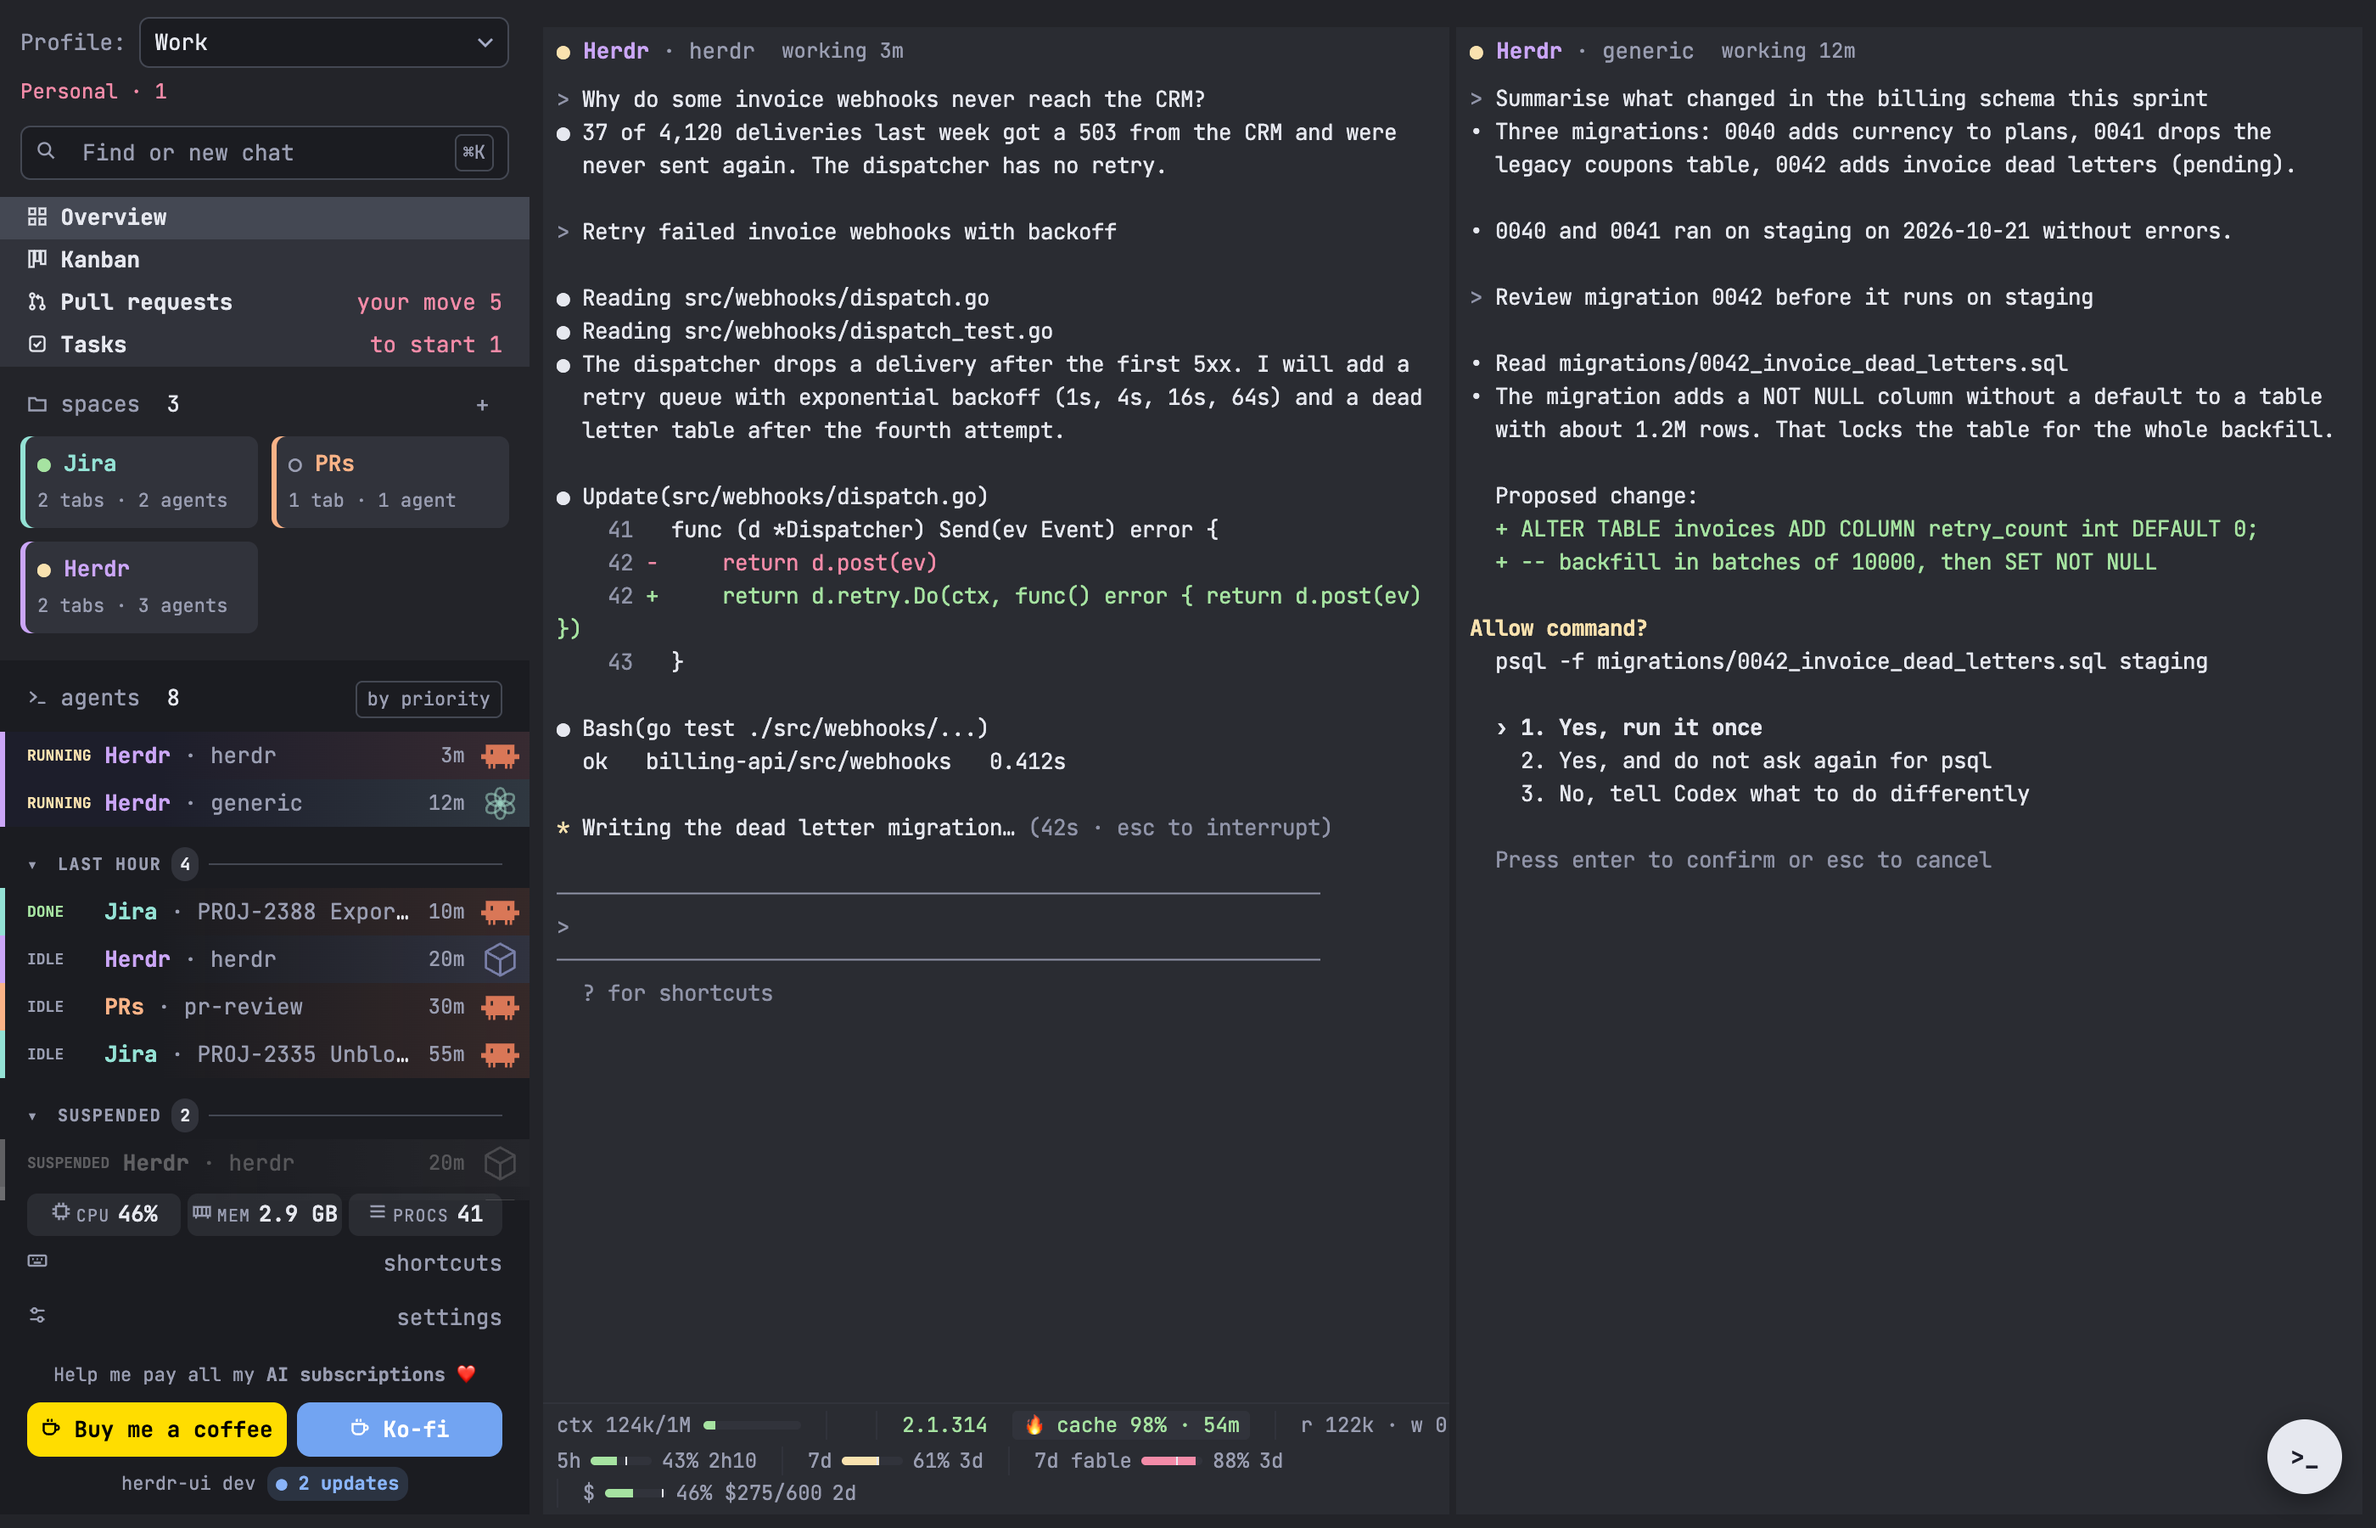
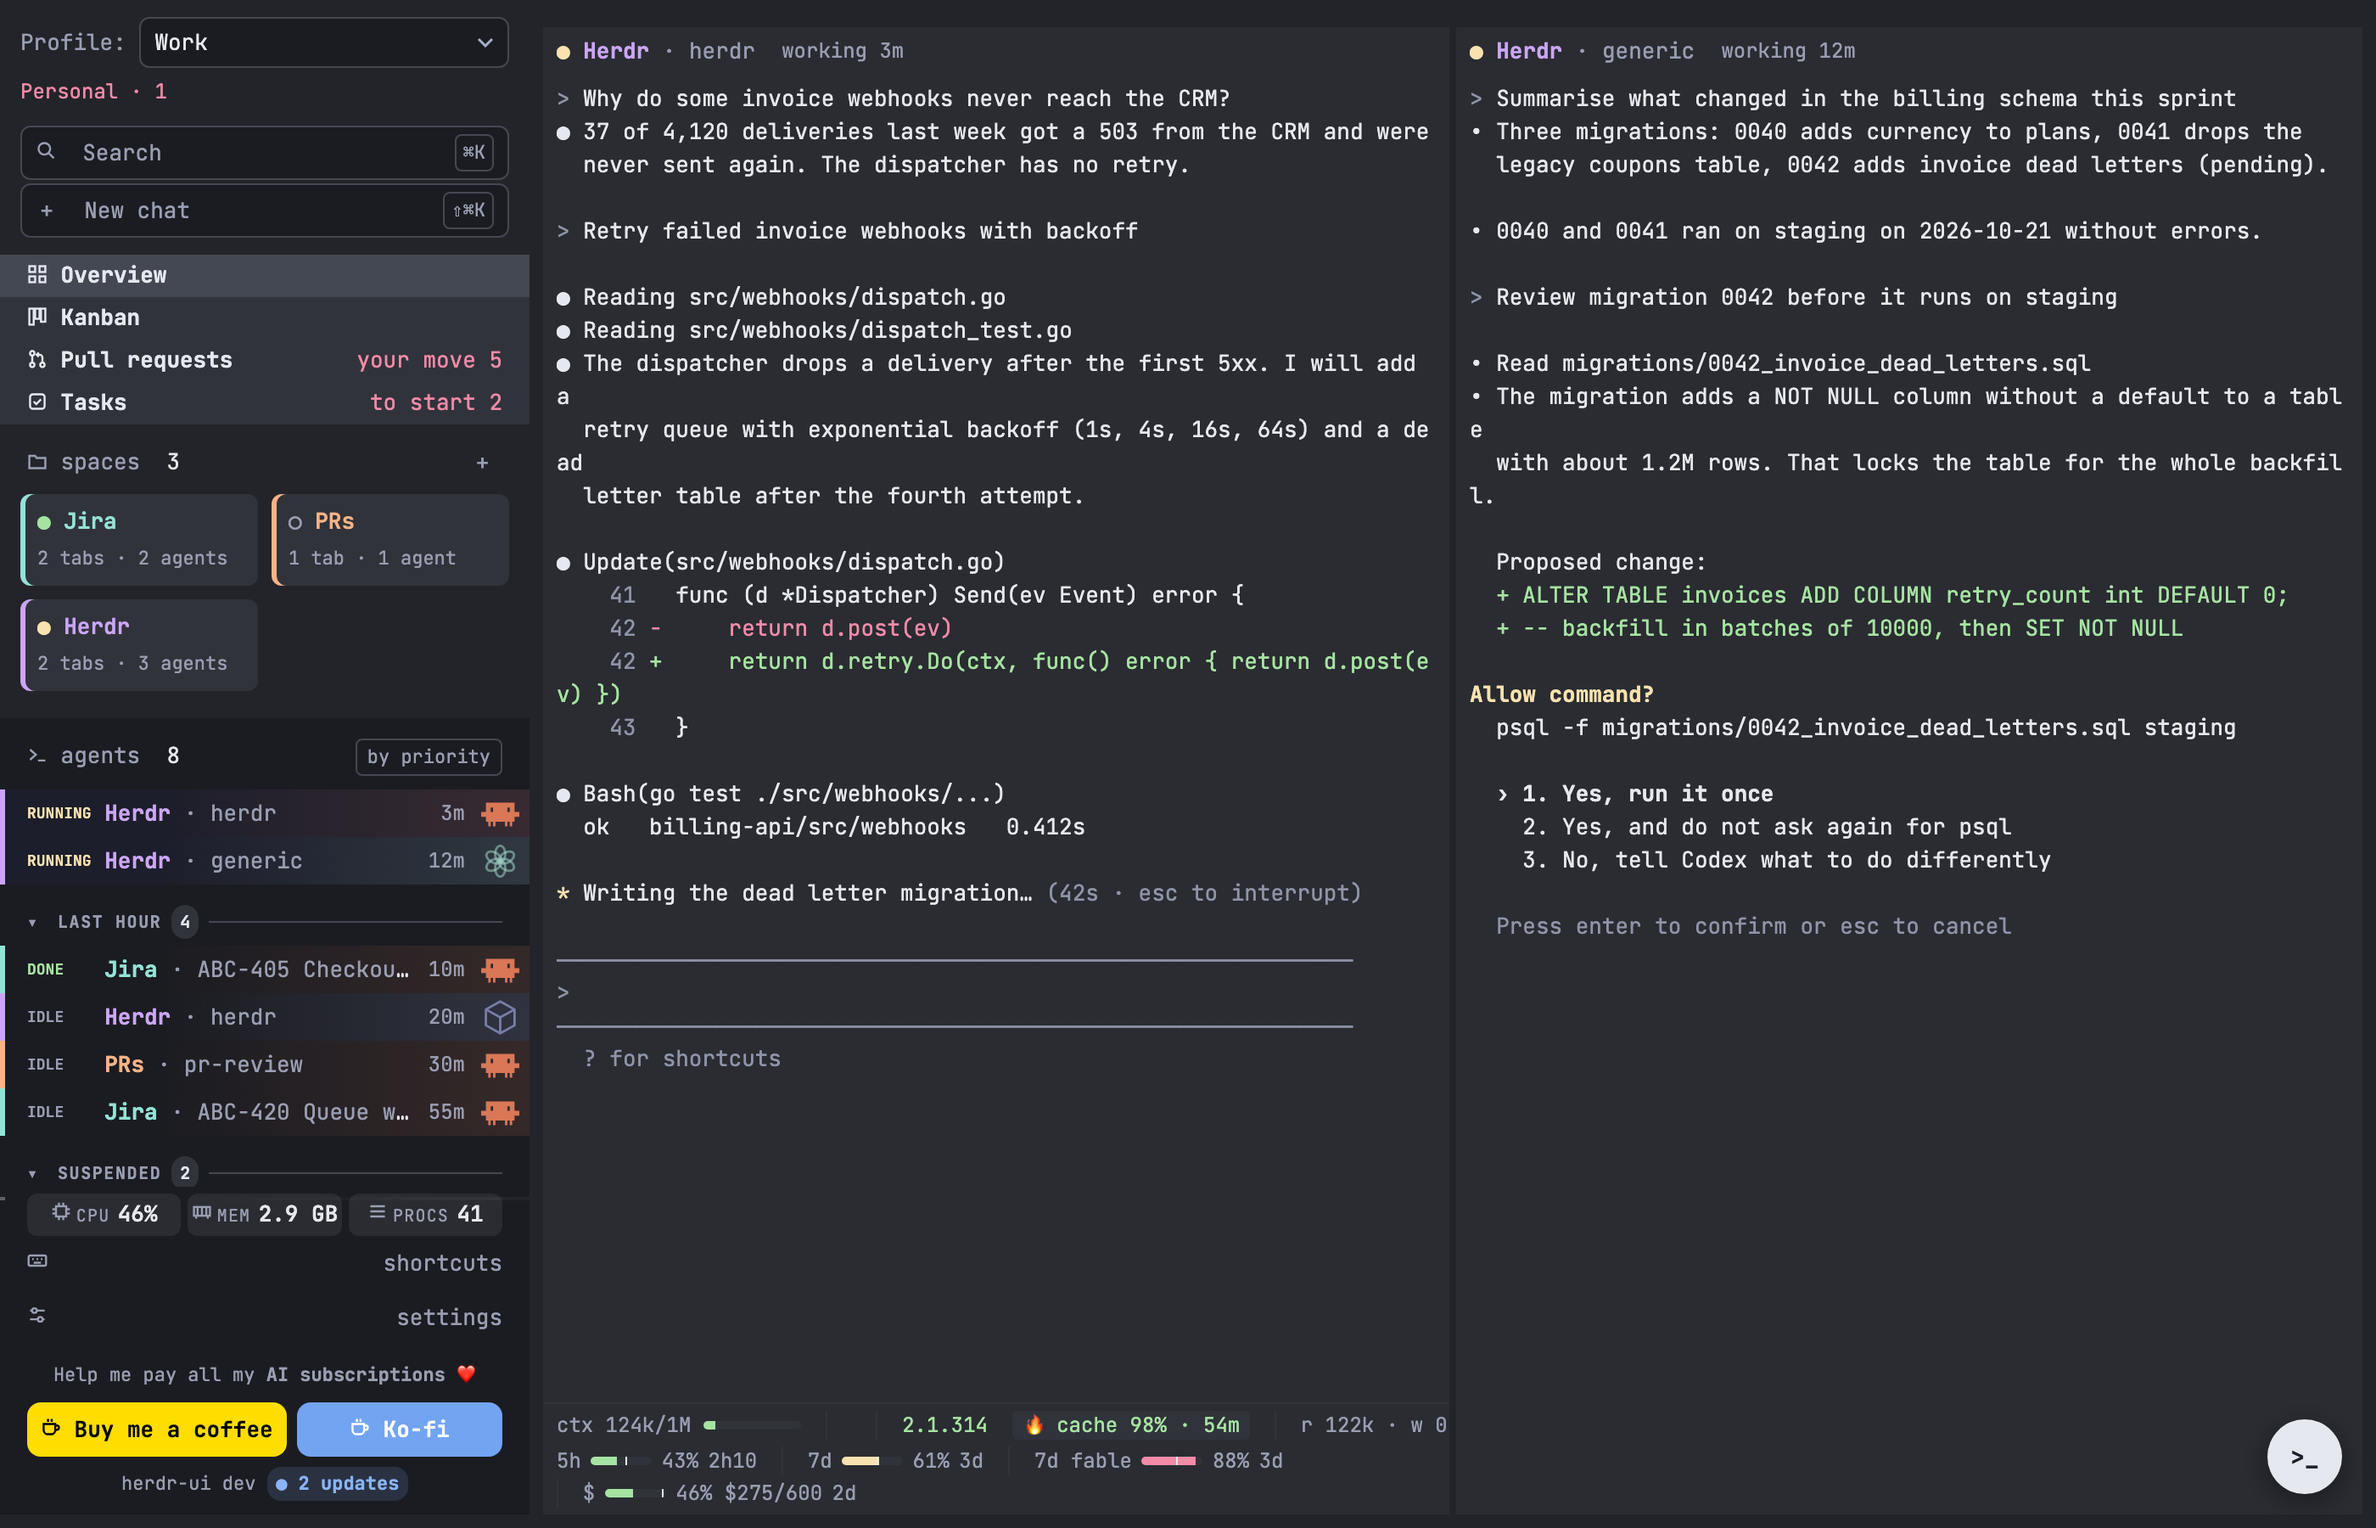
herdr-ui: v0.18.5 screenshots and ⌘K search (#26)
* herdr-ui: new screenshots, ⌘K searches sessions, PRs, tasks and folders

* herdr-ui: screenshots with the Search button

* herdr-ui: v0.18.5 screenshots; ⌘K search and ⇧⌘K new chat

---------

diff --git a/herdr-ui/index.html b/herdr-ui/index.html
@@ -4,7 +4,7 @@
 <meta charset="utf-8">
 <meta name="viewport" content="width=device-width, initial-scale=1">
 <title>herdr-ui · every agent, one screen</title>
-<meta name="description" content="herdr-ui: a better UI for herdr. A live overview of every agent, a kanban by status, pull requests and Jira tasks tied to agents, ⌘K, and native macOS notifications.">
+<meta name="description" content="herdr-ui: a better UI for herdr. A live overview of every agent, a kanban by status, pull requests and Jira tasks tied to agents, ⌘K search, and native macOS notifications.">
 <link rel="icon" href="icon.svg">
 <meta property="og:image" content="https://dccarbone.github.io/herdr-ui/social-preview.png">
 <link rel="preconnect" href="https://fonts.googleapis.com">
@@ -293,17 +293,17 @@ footer a:hover { color:var(--fg); }
       <div class="feature-top">
         <div>
           <div class="icon"><svg viewBox="0 0 24 24"><circle cx="11" cy="11" r="7"/><path d="M21 21l-4.3-4.3"/></svg></div>
-          <h2>Find anything with <span class="grad">⌘K</span></h2>
-          <p style="color:var(--body)">One search for every session and repo: ⌘K, a few letters, Enter.</p>
+          <h2>Search everything with <span class="grad">⌘K</span></h2>
+          <p style="color:var(--body)">One search for chats, pull requests and Jira tasks: ⌘K, a few letters, Enter.</p>
         </div>
         <div class="points">
-          <div style="--c:var(--pink)"><b>Jump to a session</b>By space, tab, agent or folder.</div>
-          <div style="--c:var(--cyan)"><b>New chat anywhere</b>Pick a folder and a space; your agent starts there.</div>
-          <div style="--c:var(--green)"><b>No duplicates</b>Enter goes to the agent already in that folder.</div>
+          <div style="--c:var(--pink)"><b>Jump to a chat</b>By space, tab, agent or folder.</div>
+          <div style="--c:var(--cyan)"><b>New chat with ⇧⌘K</b>Pick a folder and a space; your agent starts there.</div>
+          <div style="--c:var(--green)"><b>PRs and tasks</b>Enter opens the PR or the task row; ⌘Enter opens GitHub or Jira.</div>
           <div style="--c:var(--orange)"><b>Your folders</b><code>~/repos</code> or any folder, set in Settings.</div>
         </div>
       </div>
-      <div class="frame"><div class="bar"><i></i><i></i><i></i><span>herdr-ui · ⌘K</span></div><img src="palette.png" width="2800" height="1800" alt="The ⌘K palette over the overview, listing matching sessions and folders for a new chat" loading="lazy"></div>
+      <div class="frame"><div class="bar"><i></i><i></i><i></i><span>herdr-ui · ⌘K</span></div><img src="palette.png" width="2800" height="1800" alt="⌘K search over the overview: chats, a Jira task and two pull requests in aligned sections" loading="lazy"></div>
     </div>
   </section>
 
